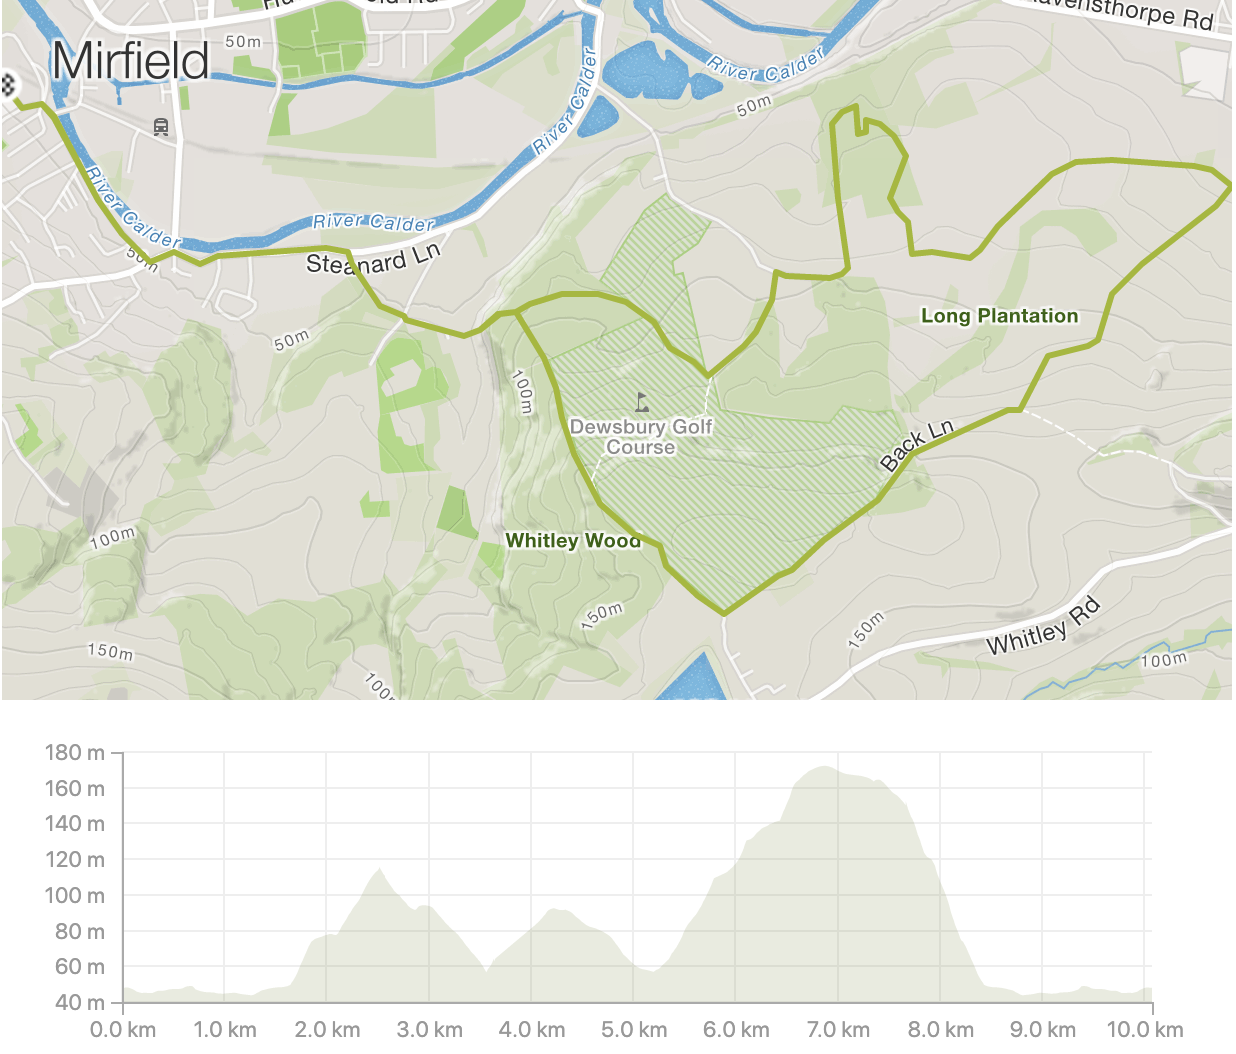
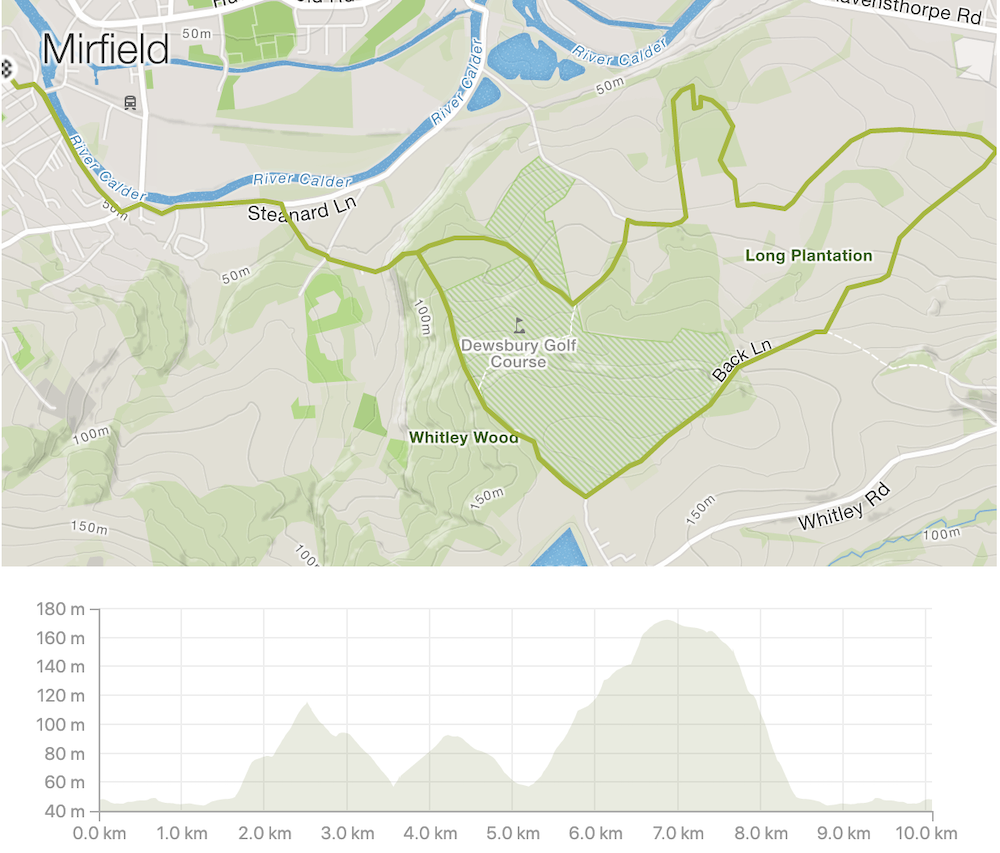
Deploy script run

diff --git a/css/style.hopton.css b/css/style.hopton.css
@@ -816,7 +816,7 @@ fieldset[disabled] .btn-template-primary.active {
   padding: 30px;
   margin-bottom: 0;
   position: relative;
-  background: url('/images/covers/winding-field.jpg') center center repeat;
+  background: url('/images/covers/winding-field-2.jpg') center center repeat;
   background-size: cover;
   -webkit-transition: all 0.2s ease-out;
   -moz-transition: all 0.2s ease-out;
@@ -1166,7 +1166,7 @@ fieldset[disabled] .btn-template-primary.active {
 }
 .home-carousel {
   position: relative;
-  background: url('/images/covers/winding-field.jpg') center center repeat;
+  background: url('/images/covers/winding-field-2.jpg') center center repeat;
   background-size: cover;
   -webkit-transition: all 0.2s ease-out;
   -moz-transition: all 0.2s ease-out;
@@ -1802,13 +1802,13 @@ fieldset[disabled] .btn-template-primary.active {
   background-size: cover;
 }
 .bar.background-image-fixed-2 {
-  background: url('/images/covers/footpath2.jpg') center top no-repeat;
+  background: url('/images/covers/footpath3.jpg') center top no-repeat;
   background-attachment: fixed;
   background-size: cover;
 }
 
 .bar.background-image-fixed-3 {
-    background: url('/images/covers/field.jpg') center top no-repeat;
+    background: url('/images/covers/field2.jpg') center top no-repeat;
     background-attachment: fixed;
     background-size: cover;
 }

diff --git a/index.html b/index.html
@@ -308,7 +308,7 @@
                         <h2>The Route</h2>
                     </div>
                     <a href="https://www.strava.com/routes/19111181">
-                        <img src="/images/map-v5.png" alt="The Hopton 10k running route" width="100%" style="max-width: 600px" />
+                        <img src="/images/map-v5.jpg" alt="The Hopton 10k running route" width="100%" style="max-width: 600px" />
                     </a>
                     <h4><a href="https://www.google.com/maps/d/viewer?mid=18nX-YnQGysQI_1L8-GL1aDeaNGweVj99">A more detailed map is available here</a>.</h4>
                 </div>
